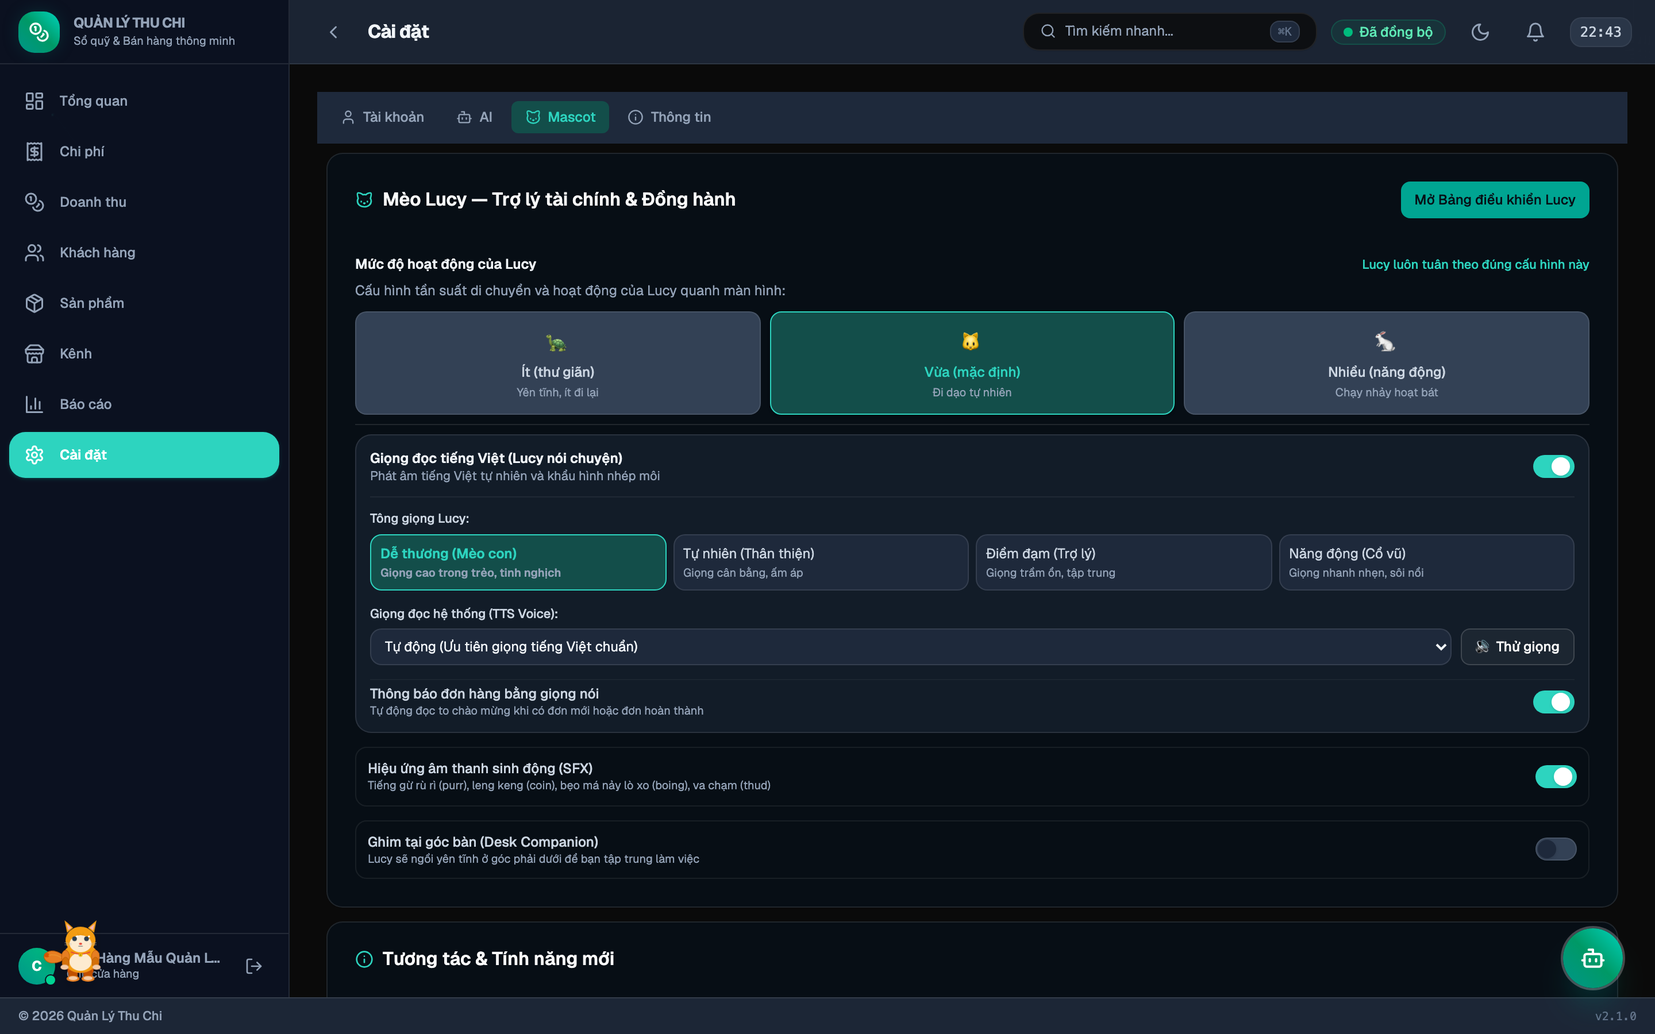
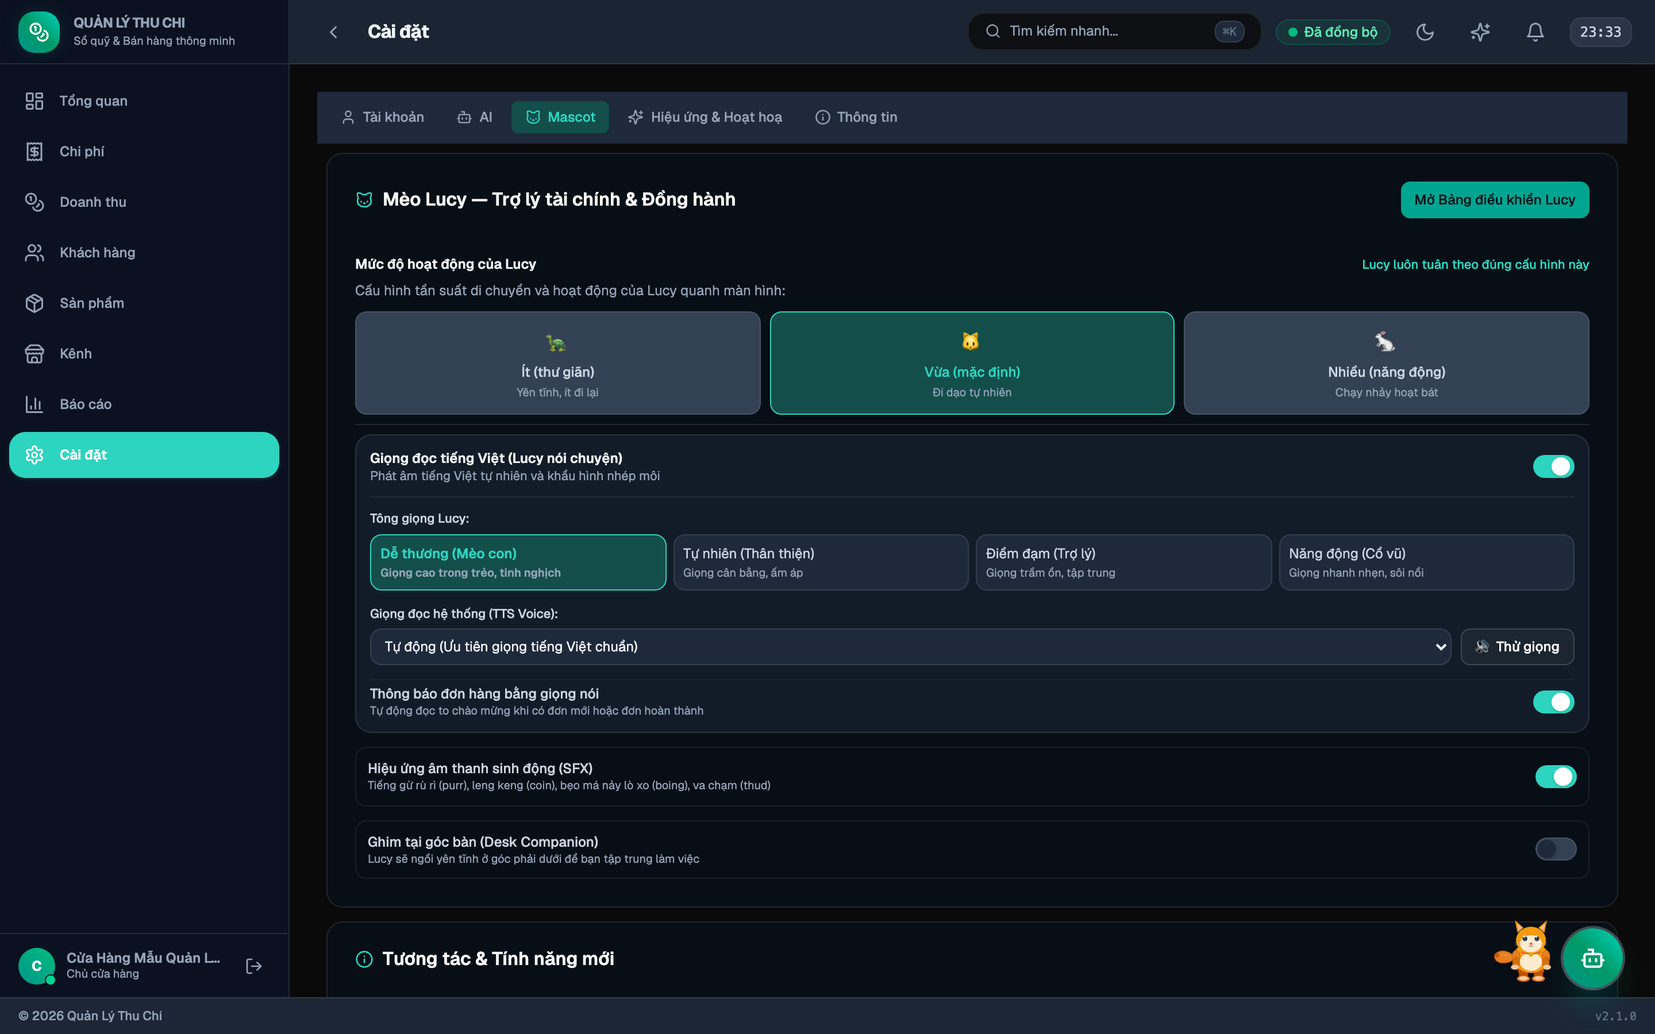
Release v2.2.0

diff --git a/wiki/Chuẩn-hoá-Dữ-liệu.md b/wiki/Chuẩn-hoá-Dữ-liệu.md
@@ -1,0 +1,68 @@
+# Chuẩn hoá Dữ liệu Nhập liệu (AI Data Standardization)
+
+Chức năng **Chuẩn hoá Dữ liệu Nhập liệu** giúp phát hiện và tự động làm sạch các bản ghi dữ liệu đã nhập trong hệ thống nhưng chưa đúng chuẩn hoặc bị lỗi chính tả, sai danh mục, sai định dạng số điện thoại hoặc đơn vị tính.
+
+![Hộp thoại Chuẩn hoá Dữ liệu AI](images/10-data-standardization.png)
+
+---
+
+## 1. Vấn đề thường gặp khi nhập liệu thủ công
+
+Trong quá trình vận hành cửa hàng bận rộn, người dùng thường gõ nhanh dẫn tới các lỗi dữ liệu:
+- **Gõ thiếu dấu tiếng Việt hoặc viết hoa lộn xộn**: ví dụ *"mua cafe cau dat"*, *"TIEN DIEN THANG 10"*, *"chi tieu linh tinh"*.
+- **Số điện thoại khách hàng không đồng nhất**: ví dụ `+84 901 234 567`, `090.123.4567`, `0901 234 567` gây khó khăn khi tìm kiếm và nhắn tin.
+- **Danh mục chi phí phân loại sai**: ví dụ tiền điện, nước, internet nhưng để mặc định là `other` (Khác).
+- **Đơn vị tính sản phẩm không đồng bộ**: ví dụ cùng một sản phẩm nhưng lúc nhập là *"LON"*, lúc *"lon"*, lúc *"ly"*, *"Chai"*, *"kg"*.
+
+---
+
+## 2. Các nhóm dữ liệu được chuẩn hoá
+
+| Phân hệ | Dữ liệu được quét | Quy chuẩn chuẩn hoá |
+|:---|:---|:---|
+| 💰 **Chi phí (Expenses)** | Mô tả (`description`), Danh mục (`category`) | Viết hoa chữ cái đầu (Title Case), khôi phục dấu tiếng Việt, tự động nhận diện và gán đúng 10 danh mục chuẩn (`utilities`, `office`, `supplies`, `rent`, `salary`...). |
+| 👥 **Khách hàng (Customers)** | Tên khách (`name`), Số điện thoại (`phone`) | Viết hoa tên riêng chuẩn tiếng Việt, chuẩn hoá số điện thoại về định dạng 10 chữ số sạch `0xxxxxxxxx` (bỏ mã quốc gia `+84`, khoảng trắng và dấu chấm). |
+| 🏷 **Sản phẩm (Products)** | Tên sản phẩm (`name`), Đơn vị tính (`unit`) | Chuẩn hoá tên tiếng Việt, đồng bộ đơn vị tính chuẩn (`ly`, `chai`, `lon`, `gói`, `hộp`, `cái`, `kg`, `phần`, `suất`...). |
+| 📦 **Đơn hàng (Revenues)** | Ghi chú đơn (`notes`), Tên hàng hoá (`items.name`) | Chuẩn hoá ghi chú và tên sản phẩm trong từng chi tiết đơn hàng. |
+
+---
+
+## 3. Kiến trúc Đa tầng (Hybrid AI & Heuristic)
+
+Hệ thống kết hợp 2 tầng xử lý thông minh để tối ưu chi phí và độ tin cậy:
+
+1. **Bộ quy tắc Heuristic ngoại tuyến (Offline Heuristics)**:
+   - Chạy tức thì 0ms, không phụ thuộc internet và không tốn token AI.
+   - Nhận diện từ khoá danh mục chi phí (tiền điện, nước, internet, tiền nhà, lương, quảng cáo, nguyên liệu...).
+   - Regex làm sạch số điện thoại di động Việt Nam.
+   - Từ điển chuẩn hoá đơn vị đo lường phổ biến.
+2. **Mô hình Ngôn ngữ Lớn Đa tầng (LLM Cascade)**:
+   - Kích hoạt khi bấm nút **"Chuẩn hoá với AI"**.
+   - Gửi các bản ghi phức tạp qua chuỗi ưu tiên: **Kilo Free (kilo-auto/free)** ➔ **Groq** ➔ **Gemini** ➔ **OpenRouter** ➔ **SiliconFlow** ➔ **WebLLM (chạy GPU cục bộ)**.
+   - Trích xuất cấu trúc JSON có độ chính xác ngữ cảnh cao, tự động khôi phục dấu tiếng Việt tự nhiên và phân loại thông minh.
+
+---
+
+## 4. Cách sử dụng
+
+### Bước 1: Mở Hộp thoại Chuẩn hoá
+Bạn có thể mở tính năng bằng bất kỳ cách nào thuận tiện nhất:
+- **Thanh Header**: Bấm biểu tượng tia sáng **Sparkles ✨** ở góc phải trên màn hình.
+- **Command Palette (`⌘K` hoặc `Ctrl+K`)**: Gõ tìm kiếm và chọn **✨ Chuẩn hoá dữ liệu (AI)**.
+- **Cài đặt Hệ thống**: Vào **Cài đặt ⚙ → AI Providers → Chuẩn hoá dữ liệu nhập liệu (AI)**.
+- **Trò chuyện với AI / Lucy**: Nhắn tin *"chuẩn hoá dữ liệu"* hoặc *"làm sạch sổ sách"*.
+
+### Bước 2: Xem trước Thay đổi (Diff View)
+- Hộp thoại hiển thị thống kê tổng số bản ghi vi phạm.
+- Mỗi bản ghi được hiển thị dưới dạng thẻ so sánh **Trước ➔ Sau**:
+  - Cột màu hổ phách/đỏ nhạt: Dữ liệu hiện tại trong hệ thống.
+  - Cột màu xanh ngọc: Dữ liệu đề xuất sau khi chuẩn hoá kèm lý do thay đổi.
+
+### Bước 3: Áp dụng Cập nhật
+- **Áp dụng từng mục**: Bấm nút **"Áp dụng"** trên từng thẻ bản ghi bạn đồng ý.
+- **Áp dụng hàng loạt**: Chọn các checkbox của những mục muốn sửa (hoặc bấm chọn tất cả) rồi bấm nút **"Áp dụng (X) mục đã chọn"**.
+- Dữ liệu được lưu an toàn vào cơ sở dữ liệu IndexedDB và tự động đồng bộ lên Supabase Cloud Sync (nếu đã kết nối).
+
+---
+
+→ [Trang chủ Wiki](Home) · [Trợ lý AI](Trợ-lý-AI) · [Cài đặt Hệ thống](Cài-đặt)

diff --git a/CHANGELOG.md b/CHANGELOG.md
@@ -6,6 +6,45 @@ Các tag được đánh theo [Semantic Versioning](https://semver.org/lang/vi/)
 
 ---
 
+## [2.2.0] — 2026-10-10
+
+🔗 [So sánh với v2.1.0](https://github.com/manhquoc2013/quan-ly-thu-chi/compare/v2.1.0...v2.2.0)
+
+### Chuẩn hoá Dữ liệu Nhập liệu Thông minh (AI Data Standardization)
+- **Engine Chuẩn hoá Dữ liệu (`dataStandardizer.ts`)**:
+  - Quét tự động toàn bộ 4 nhóm dữ liệu cốt lõi: Chi phí, Khách hàng, Sản phẩm, Đơn hàng doanh thu.
+  - Nhận diện các lỗi nhập liệu phổ biến: thiếu/sai dấu tiếng Việt, viết hoa lộn xộn, số điện thoại không chuẩn 10 số (chứa khoảng trắng/dấu chấm/đầu số quốc tế +84), danh mục chi phí sai lệch, đơn vị tính sản phẩm không đồng nhất (lon, chai, cái, kg, ly...).
+  - Cơ chế đa tầng (Cascade AI): Tự động phân tích bằng mô hình ngôn ngữ lớn (Kilo Free / Groq / Gemini / OpenRouter / WebLLM) hoặc bộ quy tắc Heuristic ngoại tuyến thông minh.
+- **Giao diện Trực quan & Xem trước Thay đổi (`DataStandardizationDialog.tsx`)**:
+  - Hiển thị thống kê tổng quan (đã quét, cần chuẩn hoá, đã đề xuất, đã cập nhật).
+  - Phân loại theo tab (Tất cả, Chi phí, Khách hàng, Sản phẩm, Đơn hàng) kèm bộ lọc tìm kiếm nhanh.
+  - Thẻ so sánh trực quan Trước ➔ Sau (Diff Card) làm nổi bật các trường dữ liệu được hiệu chỉnh.
+  - Xem trước và cho phép người dùng chọn lọc từng mục hoặc áp dụng chuẩn hoá hàng loạt an toàn.
+- **Tích hợp Nhanh Toàn diện**:
+  - Nút bấm Sparkles ✨ trên thanh Header điều hướng.
+  - Phím tắt trong Command Palette (`⌘K` → `✨ Chuẩn hoá dữ liệu (AI)`).
+  - Tích hợp vào Cài đặt tab AI và gợi ý nhanh trong màn hình Trò chuyện AI.
+  - Trợ lý Lucy tự động nhận diện ý định `standardize_data` khi người dùng nhắn "chuẩn hoá dữ liệu" hoặc "làm sạch sổ sách".
+
+### Bộ Quản lý & Tối ưu Hoạt hoạ (Motion & Animation Engine)
+- **Kho trạng thái `useMotionStore`**:
+  - Hỗ trợ 3 cấp độ hoạt hoạ: **Đầy đủ (Full)**, **Tối giản (Reduced)**, **Tắt toàn bộ (Off)**.
+  - 5 công tắc tinh chỉnh độc lập: Vệt sáng con trỏ (Cursor Glow), Hoạt hoạ Splash & Loading, Chuyển cảnh trang (Page Transitions), Hoạt hoạ Linh vật (Mascot Animations), Tăng tốc GPU.
+  - Tự động đồng bộ thuộc tính `data-motion` lên thẻ gốc `<html>` và biến CSS toàn cục `--motion-duration-factor`.
+- **Pre-mount Splash Screen**:
+  - Nhúng splash screen siêu nhẹ inline trong `index.html`, đọc trực tiếp cấu hình từ `localStorage` trước khi React render, ngăn chặn hoàn toàn hiện tượng nhấp nháy màn hình trắng (FOUC).
+- **Tab Cài đặt Hoạt hoạ & Khung thử nghiệm**:
+  - Bổ sung tab **Hiệu ứng & Hoạt hoạ** trong `SettingsScreen.tsx`.
+  - Khung thử nghiệm chuyển động tương tác (**Motion Playground**) hỗ trợ kiểm tra trực quan các hiệu ứng Bounce, Spin, Pulse, Slide theo cấp độ đã chọn.
+- **Tiết kiệm Pin & Phần cứng**:
+  - Tự động hủy animation loop (`requestAnimationFrame`) của con trỏ và tạm dừng chu kỳ di chuyển tự do của Linh vật Lucy khi chuyển sang chế độ tiết kiệm/tắt hoạt hoạ.
+
+### Cải tiến Đồng bộ Đám mây & Ổn định Dữ liệu
+- **Khắc phục Đồng bộ Khách hàng & Sản phẩm**: Đảm bảo toàn vẹn dữ liệu khi tải từ Supabase Cloud về kho lưu trữ IndexedDB cục bộ.
+- **Mở rộng Kiểm thử Đơn vị**: Bổ sung bộ kiểm thử cho `dataStandardizer.test.ts` và `reportService.test.ts`, nâng tổng số test lên 215 tests với tỷ lệ vượt qua 100%.
+
+---
+
 ## [2.1.0] — 2026-10-10
 
 🔗 [So sánh với v2.0.0](https://github.com/manhquoc2013/quan-ly-thu-chi/compare/v2.0.0...v2.1.0)

diff --git a/.ai-context.md b/.ai-context.md
@@ -1,18 +1,17 @@
 # AI CONTEXT STATE RECORD
-> Last Updated: 2026-10-10T15:50:00.000Z
+> Last Updated: 2026-10-10T23:30:00.000Z (Release v2.2.0)
 
 ## 1. Architectural State
-React 19 Vite SPA, WebLLM local GPU inference (Qwen 2.5), AI Router cascade, mascotStore (Lucy) with Web Audio procedural synthesis & Web Speech TTS, revenue & expense services with automated order voice announcer, Playwright automated documentation capture, Supabase Cloud Sync.
+React 19 Vite SPA, WebLLM local GPU inference (Qwen 2.5), AI Router cascade, mascotStore (Lucy) with Web Audio procedural synthesis & Web Speech TTS, motionStore with 3 tiers (Full/Reduced/Off) & inline pre-mount splash screen, dataStandardizer with LLM cascade & heuristic engine, DataStandardizationDialog with diff preview, Supabase Cloud Sync.
 
 ## 2. Recent Changes
-- Tái thiết kế toàn diện Trợ lý Mèo Lucy: Tương tác vật lý kéo thả ném rơi tự do có gia tốc trọng trường và va chạm đàn hồi.
-- Cấu hình âm thanh: Thêm cờ `soundEnabled` và cổng ngắt Web Audio tuyệt đối (`getAudioContext()` null khi tắt).
-- Cố định mức độ hoạt động: Mức độ hoạt động (`low`, `medium`, `high`) luôn tuân thủ nghiêm ngặt cấu hình, loại bỏ đột biến click đúp.
-- Tổng hợp giọng nói tiếng Việt: Quét giọng TTS hệ thống, 4 bộ âm sắc giọng (Dễ thương, Tự nhiên, Điềm đạm, Năng động), pitch/rate controls.
-- Thông báo đơn hàng tự động: `mascotAnnouncer.ts` tự động phát âm thanh và cất giọng tiếng Việt khi có đơn mới hoặc đơn hoàn thành.
-- Tự động hoá Playwright: Kịch bản `scripts/capture-wiki-screenshots.mjs` chụp 8 ảnh Retina 2x lưu vào `wiki/images/`.
-- Cập nhật toàn diện tài liệu hệ thống và Wiki v2.1.0 (`README.md`, `CHANGELOG.md`, `wiki/Mèo-Lucy.md`, `wiki/Cài-đặt.md`, `wiki/Dashboard.md`, `wiki/Quản-lý-Doanh-thu.md`, v.v.).
+- Phát hành v2.2.0: Chuẩn hoá dữ liệu nhập liệu thông minh qua AI và Tối ưu hoá toàn diện Hoạt hoạ & Hiệu ứng hệ thống.
+- Engine Chuẩn hoá Dữ liệu (`dataStandardizer.ts`): Quét tự động Chi phí, Khách hàng, Sản phẩm, Đơn hàng; sửa dấu tiếng Việt, định dạng SĐT 10 số, đồng bộ danh mục và đơn vị tính qua LLM Cascade & bộ Heuristic offline.
+- Giao diện Chuẩn hoá Dữ liệu (`DataStandardizationDialog.tsx`): So sánh Trước ➔ Sau (Diff Card), lọc nhóm, xem trước và áp dụng từng mục hoặc hàng loạt an toàn; tích hợp Header Sparkles ✨, `⌘K`, Cài đặt & Lucy chat intent.
+- Engine Quản trị Hoạt hoạ (`motionStore.ts`): 3 cấp độ (Full/Reduced/Off), 5 toggles chi tiết, CSS variables `--motion-duration-factor`, Pre-mount splash screen inline chống FOUC trong `index.html`, Motion Playground tương tác trong `SettingsScreen.tsx`.
+- Playwright tự động hoá: Bổ sung chụp ảnh `09-settings-motion.png` và `10-data-standardization.png` (tổng 10 ảnh Retina 2x chất lượng cao).
+- Kiểm thử & Ổn định: 215 tests pass 100%, 0 lint errors, 0 type errors.
 
 ## 3. Pending & Next Tasks
-- Hệ thống hoạt động ổn định, 207 tests đạt 100%, linter & typecheck sạch sẽ.
+- Toàn bộ tính năng phát hành hoàn tất và tài liệu hệ thống đồng bộ chuẩn xác.
 

diff --git a/README.md b/README.md
@@ -1,8 +1,8 @@
 # Quản Lý Tài Chính
 
-> **Phiên bản**: 2.1.0 · **Cập nhật**: 2026-10-10
+> **Phiên bản**: 2.2.0 · **Cập nhật**: 2026-10-10
 
-Ứng dụng quản lý tài chính & bán hàng thông minh, tích hợp trợ lý AI đa tầng (Hybrid AI), trợ lý linh vật Mèo Lucy tương tác vật lý và giọng nói tiếng Việt, lưu trữ local (IndexedDB/SQLite) kết hợp đồng bộ đám mây Supabase Cloud Sync. Hỗ trợ PWA và CI/CD deploy lên GitHub Pages.
+Ứng dụng quản lý tài chính & bán hàng thông minh, tích hợp trợ lý AI đa tầng (Hybrid AI), công cụ Chuẩn hoá dữ liệu nhập liệu bằng AI, tuỳ biến mức độ hoạt hoạ chống nhấp nháy, trợ lý linh vật Mèo Lucy tương tác vật lý và giọng nói tiếng Việt, lưu trữ local (IndexedDB/SQLite) kết hợp đồng bộ đám mây Supabase Cloud Sync. Hỗ trợ PWA và CI/CD deploy lên GitHub Pages.
 
 ---
 
@@ -12,6 +12,8 @@
 
 - 📊 **Quản lý bán hàng & dòng tiền**: CRUD chi phí, doanh thu, đơn hàng, khách hàng, sản phẩm, kênh bán
 - 🤖 **Trợ lý AI đa phương thức**: Nhập liệu bằng giọng nói, OCR quét hoá đơn, phân tích số liệu tài chính chuyên sâu
+- ✨ **Chuẩn hoá dữ liệu AI**: Quét tự động & chuẩn hoá lỗi tiếng Việt, định dạng SĐT 10 số, đồng bộ đơn vị tính & danh mục
+- 🎬 **Kiểm soát Hoạt hoạ Toàn diện**: 3 cấp độ hoạt hoạ (Full / Reduced / Off), chống FOUC với Pre-mount Splash Screen
 - 🐱 **Mèo Lucy — Trợ lý tài chính & Đồng hành**: Tương tác vật lý thực tế, tổng hợp giọng nói tiếng Việt (4 âm sắc), thông báo đơn hàng tự động, chế độ tập trung Pomodoro
 - ☁ **Đồng bộ đa thiết bị**: Supabase Auth + Cloud Sync thời gian thực
 
@@ -25,6 +27,8 @@
 | 💰 **Chi phí** | CRUD, 10 danh mục chuẩn hoá, tìm kiếm & lọc, thao tác xoá/xuất hàng loạt |
 | 📦 **Doanh thu** | Quản lý đơn hàng, khách hàng, sản phẩm, kênh bán, trạng thái đơn & thanh toán, in hoá đơn A6 |
 | 📊 **Báo cáo** | 8 phân hệ báo cáo chuyên sâu: Chi phí, Doanh thu, Lợi nhuận, Hàng hoá (FIFO), Công nợ, Khách hàng, Sản phẩm, Kênh bán |
+| ✨ **Chuẩn hoá Dữ liệu AI** | Tự động quét và chuẩn hoá dữ liệu sai quy chuẩn (dấu câu tiếng Việt, SĐT 10 số, danh mục, đơn vị tính) qua LLM Cascade & Heuristic, xem trước Diff trực quan |
+| 🎬 **Hiệu ứng & Hoạt hoạ** | 3 cấp độ (Full/Reduced/Off), công tắc chi tiết, Pre-mount Splash chống FOUC, khung thử nghiệm Motion Playground |
 | 🤖 **Trợ lý AI** | Chat ngôn ngữ tự nhiên, nhập liệu giọng nói 🎤, OCR hoá đơn 📷, phân tích P&L |
 | 🔌 **Hybrid AI** | Kilo Free → Gemini → OpenRouter → SiliconFlow → Groq → WebLLM (Qwen 2.5 local GPU) |
 | 🐱 **Mèo Lucy** | Mô phỏng vật lý ném rơi tự do, ngắt âm thanh tuyệt đối khi tắt, 4 âm sắc tiếng Việt, tự động đọc đơn mới/hoàn thành, Pomodoro |

diff --git a/wiki/Cài-đặt.md b/wiki/Cài-đặt.md
@@ -23,6 +23,7 @@ Quản lý toàn diện các mô hình trí tuệ nhân tạo:
 - **Groq / OpenRouter / SiliconFlow**: Kết nối các nhà cung cấp AI hiệu năng cao.
 - **AI Cục bộ (WebLLM)**: Chạy mô hình Qwen3-4B trực tiếp trên máy thông qua WebGPU.
 - **Sắp xếp thứ tự ưu tiên**: Kéo thả / bấm nút để ưu tiên provider xử lý theo ý muốn.
+- **Chuẩn hoá dữ liệu nhập liệu (AI Data Standardization)**: Nút thao tác nhanh mở hộp thoại quét và chuẩn hoá dữ liệu chi phí, khách hàng, sản phẩm và đơn hàng. Xem chi tiết: [Chuẩn hoá Dữ liệu AI](Chuẩn-hoá-Dữ-liệu).
 
 ---
 
@@ -49,11 +50,31 @@ Xem chi tiết tại: [Trợ lý Linh vật Mèo Lucy](Mèo-Lucy).
 
 ---
 
-## 4. Tab Thông tin
+## 4. Tab Hiệu ứng & Hoạt hoạ (Motion Settings)
 
-- Phiên bản ứng dụng hiện tại (v2.1.0).
-- Công nghệ sử dụng: React 19, Vite, Tailwind CSS v4, Zustand 5, IndexedDB, Playwright.
+Quản lý toàn bộ hiệu ứng chuyển động và hoạt hoạ trong ứng dụng:
+
+![Cài đặt Hiệu ứng & Hoạt hoạ](images/09-settings-motion.png)
+
+- **3 Chế độ hoạt hoạ chính**:
+  * 🌟 **Đầy đủ (Full)**: Hiệu ứng mượt mà tối đa, đầy đủ chuyển cảnh, vệt sáng con trỏ và hoạt hoạ linh vật.
+  * 🍃 **Tối giản (Reduced)**: Giảm thiểu chuyển động, thời gian hiệu ứng rút ngắn 50%, tuân thủ tiêu chuẩn tiếp cận WCAG.
+  * ⚡ **Tắt toàn bộ (Off)**: Tắt 100% hoạt hoạ và chuyển cảnh, phản hồi tức thì 0ms, tiết kiệm tối đa CPU/GPU và pin thiết bị.
+- **5 Công tắc tinh chỉnh**:
+  * **Vệt sáng con trỏ (Cursor Glow)**: Bật/tắt hiệu ứng quầng sáng theo sau chuột.
+  * **Hoạt hoạ Splash & Loading**: Bật/tắt hiệu ứng xoay khi tải ứng dụng.
+  * **Chuyển cảnh trang (Page Transitions)**: Hiệu ứng trượt mượt mà giữa các màn hình.
+  * **Hoạt hoạ Linh vật (Mascot Animations)**: Chuyển động đi lại và biểu cảm của Mèo Lucy.
+  * **Tăng tốc phần cứng GPU**: Ép buộc render bằng GPU để tối ưu khung hình.
+- **Khung thử nghiệm (Motion Playground)**: Tương tác trực tiếp với các nút Bounce, Spin, Pulse, Slide để kiểm tra tốc độ phản hồi chuyển động thực tế.
 
 ---
 
-→ [Trang chủ Wiki](Home) · [Trợ lý Linh vật Lucy](Mèo-Lucy)
+## 5. Tab Thông tin
+
+- Phiên bản ứng dụng hiện tại: **v2.2.0**.
+- Công nghệ sử dụng: React 19, Vite 6, Tailwind CSS v4, Zustand 5, IndexedDB, WebLLM, Playwright.
+
+---
+
+→ [Trang chủ Wiki](Home) · [Trợ lý Linh vật Lucy](Mèo-Lucy) · [Chuẩn hoá Dữ liệu](Chuẩn-hoá-Dữ-liệu)

diff --git a/wiki/Trợ-lý-AI.md b/wiki/Trợ-lý-AI.md
@@ -21,6 +21,7 @@ Trò chuyện trực tiếp với AI để tự động nhập liệu, phân tí
 | **Ghi nhận chi phí** | *"Chi 480k tiền điện và mạng hôm nay bằng chuyển khoản"* |
 | **Phân tích tài chính** | *"Phân tích doanh thu và chi phí tuần này"* |
 | **Tra cứu sổ sách** | *"Tháng này đã chi bao nhiêu tiền nguyên vật liệu?"* |
+| **Chuẩn hoá dữ liệu** | *"Chuẩn hoá dữ liệu"* hoặc *"Làm sạch sổ sách"* |
 | **Điều hướng thông minh** | *"Mở báo cáo lợi nhuận"* hoặc *"Vào cài đặt linh vật"* |
 
 ---
@@ -33,4 +34,21 @@ Trò chuyện trực tiếp với AI để tự động nhập liệu, phân tí
 
 ---
 
-→ [Trang chủ Wiki](Home) · [Kết nối AI Provider](Kết-nối-AI-Provider) · [Trợ lý Linh vật Lucy](Mèo-Lucy)
+## 4. Chuẩn hoá Dữ liệu Nhập liệu Tự động (AI Data Standardization)
+
+Khi nhập liệu vội vàng, thông tin thường bị lỗi: thiếu dấu tiếng Việt, số điện thoại lẫn khoảng trắng hoặc tiền tố quốc tế, danh mục chi phí gán bừa, đơn vị tính lộn xộn. AI Trợ lý tích hợp module quét và chuẩn hoá toàn diện:
+
+![Chuẩn hoá Dữ liệu AI](images/10-data-standardization.png)
+
+- **Cách kích hoạt**:
+  * Bấm nút **Sparkles ✨** trên thanh Header.
+  * Nhấn `⌘K` hoặc `Ctrl+K` và chọn **✨ Chuẩn hoá dữ liệu (AI)**.
+  * Nhắn tin trực tiếp với Trợ lý AI hoặc Mèo Lucy: *"chuẩn hoá dữ liệu"* / *"làm sạch sổ sách"*.
+  * Vào **Cài đặt → AI Providers → Chuẩn hoá dữ liệu nhập liệu (AI)**.
+- **Cơ chế**: Hệ thống tự động so sánh bản ghi cũ và bản ghi sau chuẩn hoá dạng **Diff Trước ➔ Sau**, cho phép người dùng kiểm tra kỹ lưỡng trước khi quyết định áp dụng vào sổ cái.
+
+Xem hướng dẫn chi tiết tại: [Chuẩn hoá Dữ liệu AI](Chuẩn-hoá-Dữ-liệu).
+
+---
+
+→ [Trang chủ Wiki](Home) · [Kết nối AI Provider](Kết-nối-AI-Provider) · [Trợ lý Linh vật Lucy](Mèo-Lucy) · [Chuẩn hoá Dữ liệu AI](Chuẩn-hoá-Dữ-liệu)

diff --git a/RELEASE.md b/RELEASE.md
@@ -21,11 +21,11 @@
 >
 > **Cấu hình repo (một lần):** Settings → Pages → Build and deployment → **Source = GitHub Actions** (không còn “Deploy from a branch / gh-pages”).
 
-## Phiên bản hiện tại: v2.1.0
+## Phiên bản hiện tại: v2.2.0
 
 | Thành phần | Phiên bản |
 |:---|:---|
-| App | 2.1.0 |
+| App | 2.2.0 |
 | React | 19 |
 | Vite | 6 |
 | Tailwind CSS | 4 |

diff --git a/wiki/_Sidebar.md b/wiki/_Sidebar.md
@@ -9,6 +9,7 @@
 - [Quản lý Chi phí](Quản-lý-Chi-phí)
 - [Báo cáo](Báo-cáo)
 - [Trợ lý AI](Trợ-lý-AI)
+- [Chuẩn hoá Dữ liệu](Chuẩn-hoá-Dữ-liệu)
 - [Trợ lý Mèo Lucy](Mèo-Lucy)
 
 ## ⚙ Cấu hình
